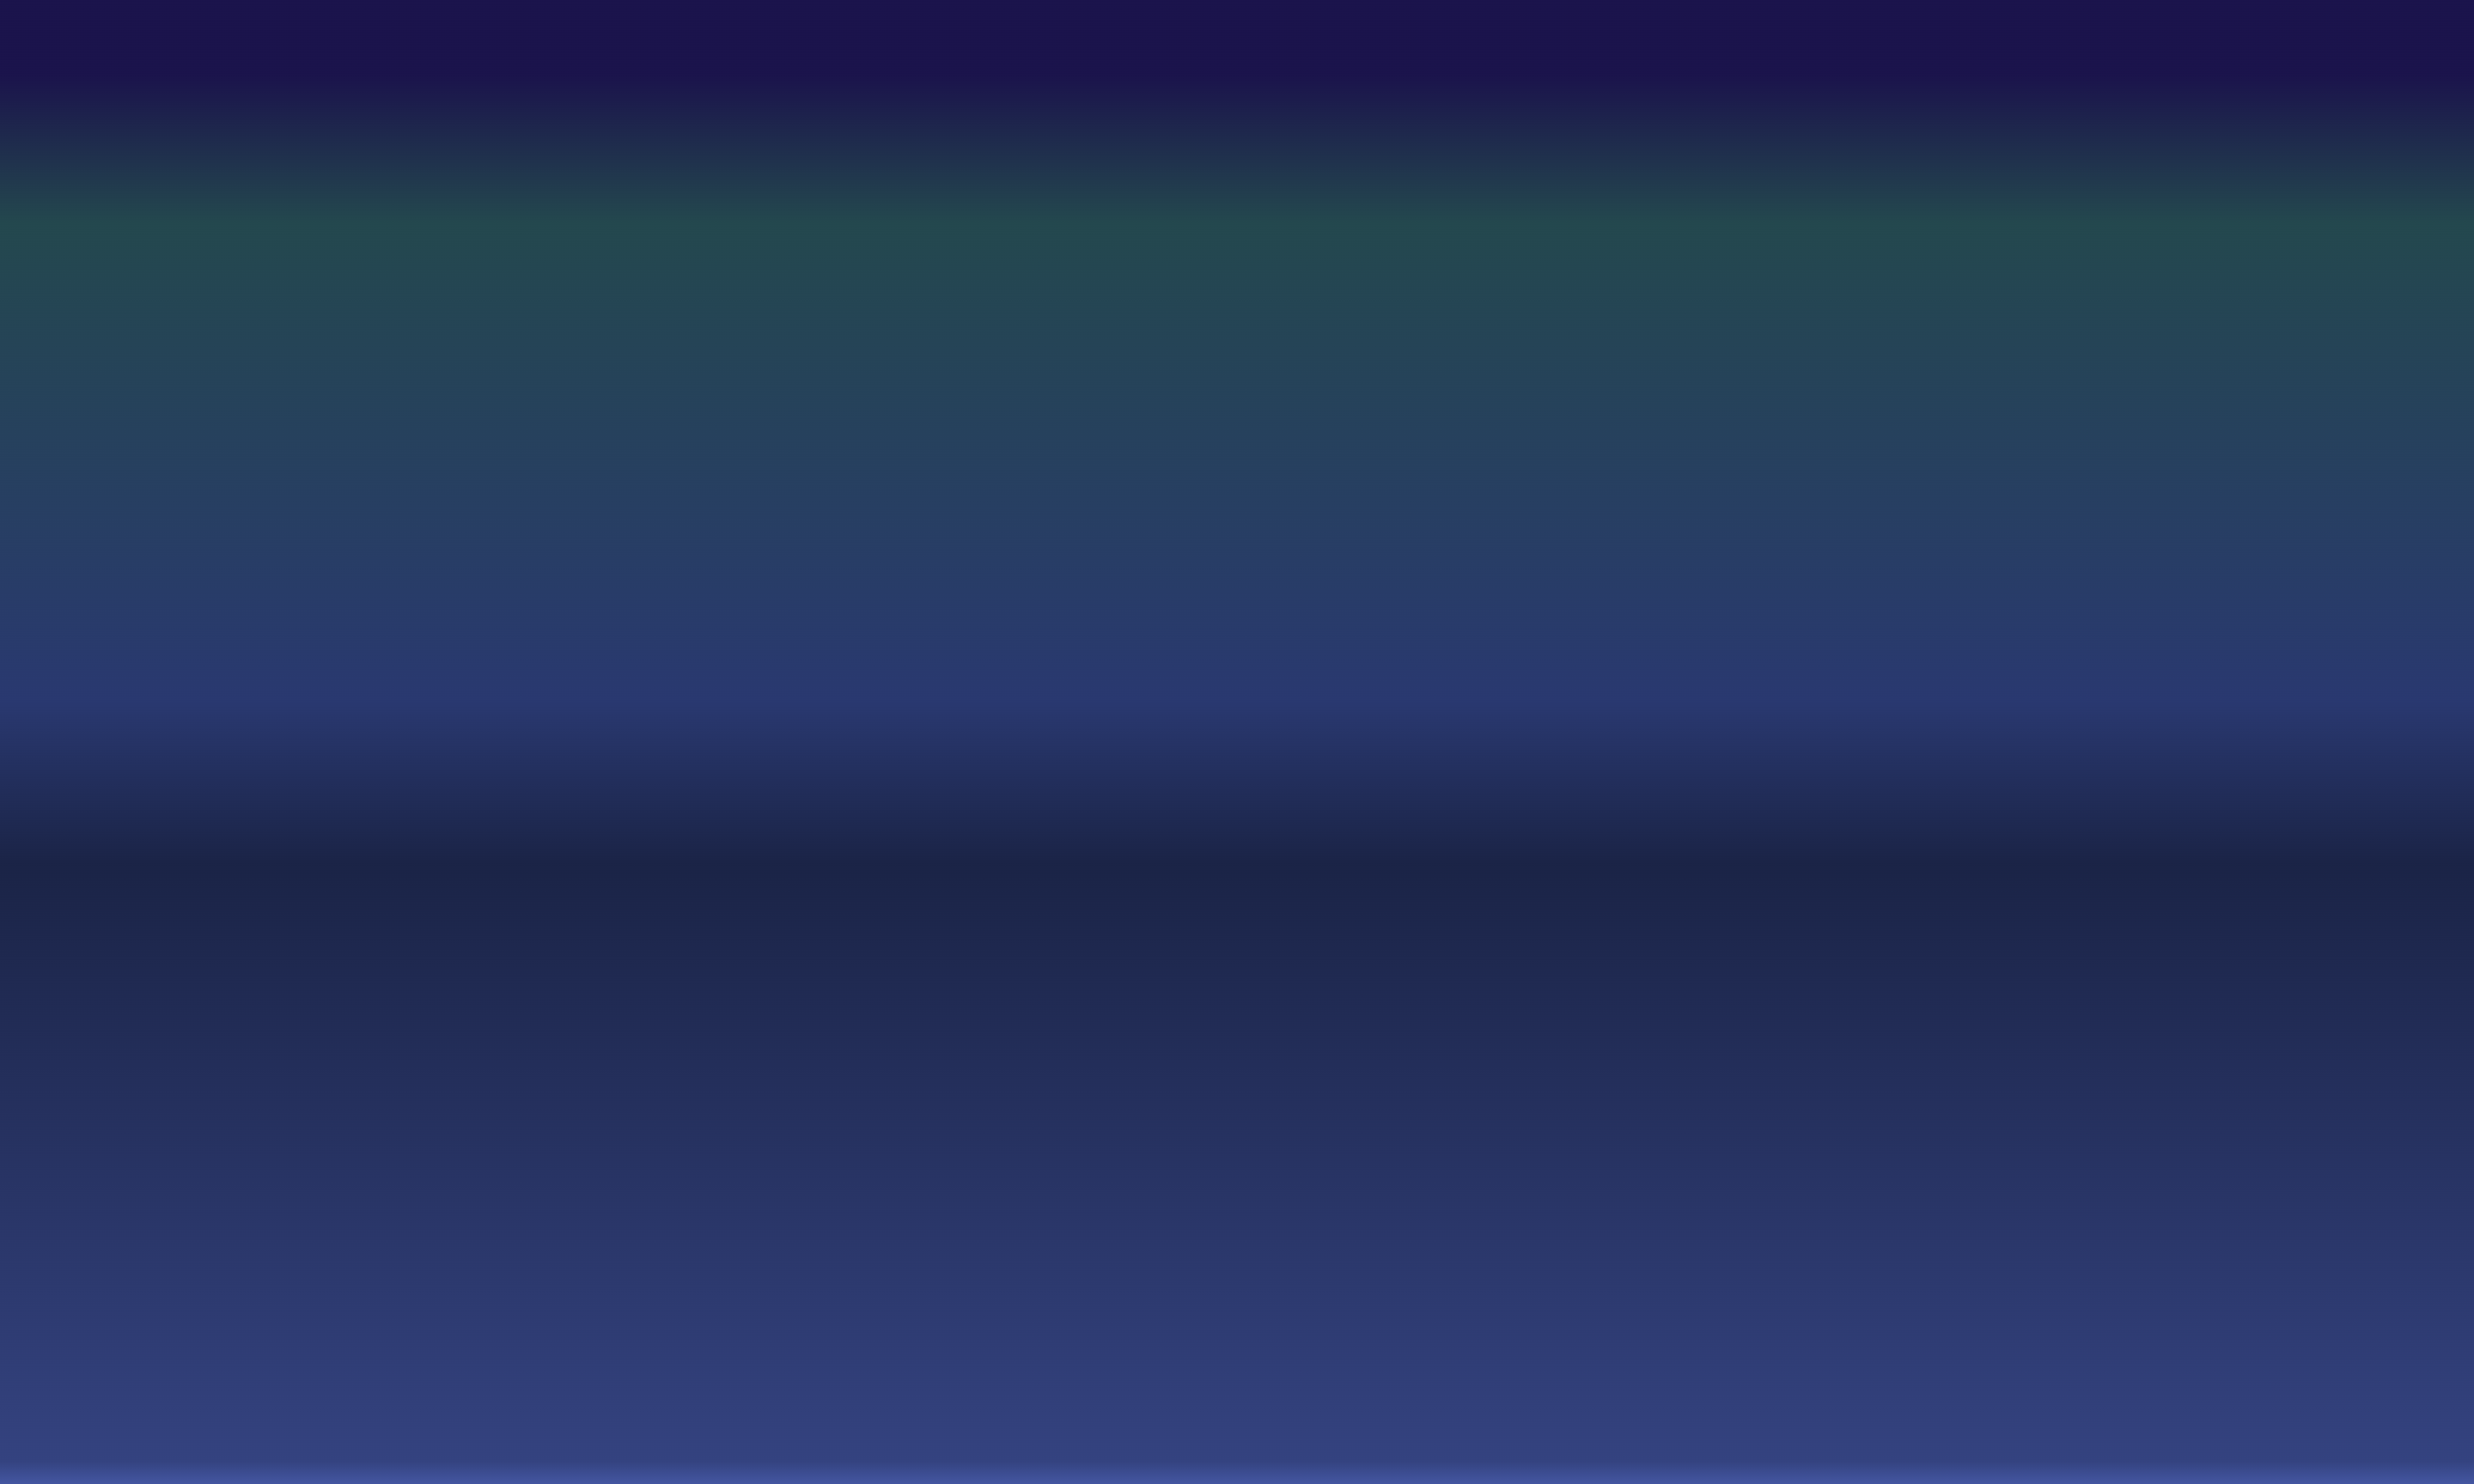
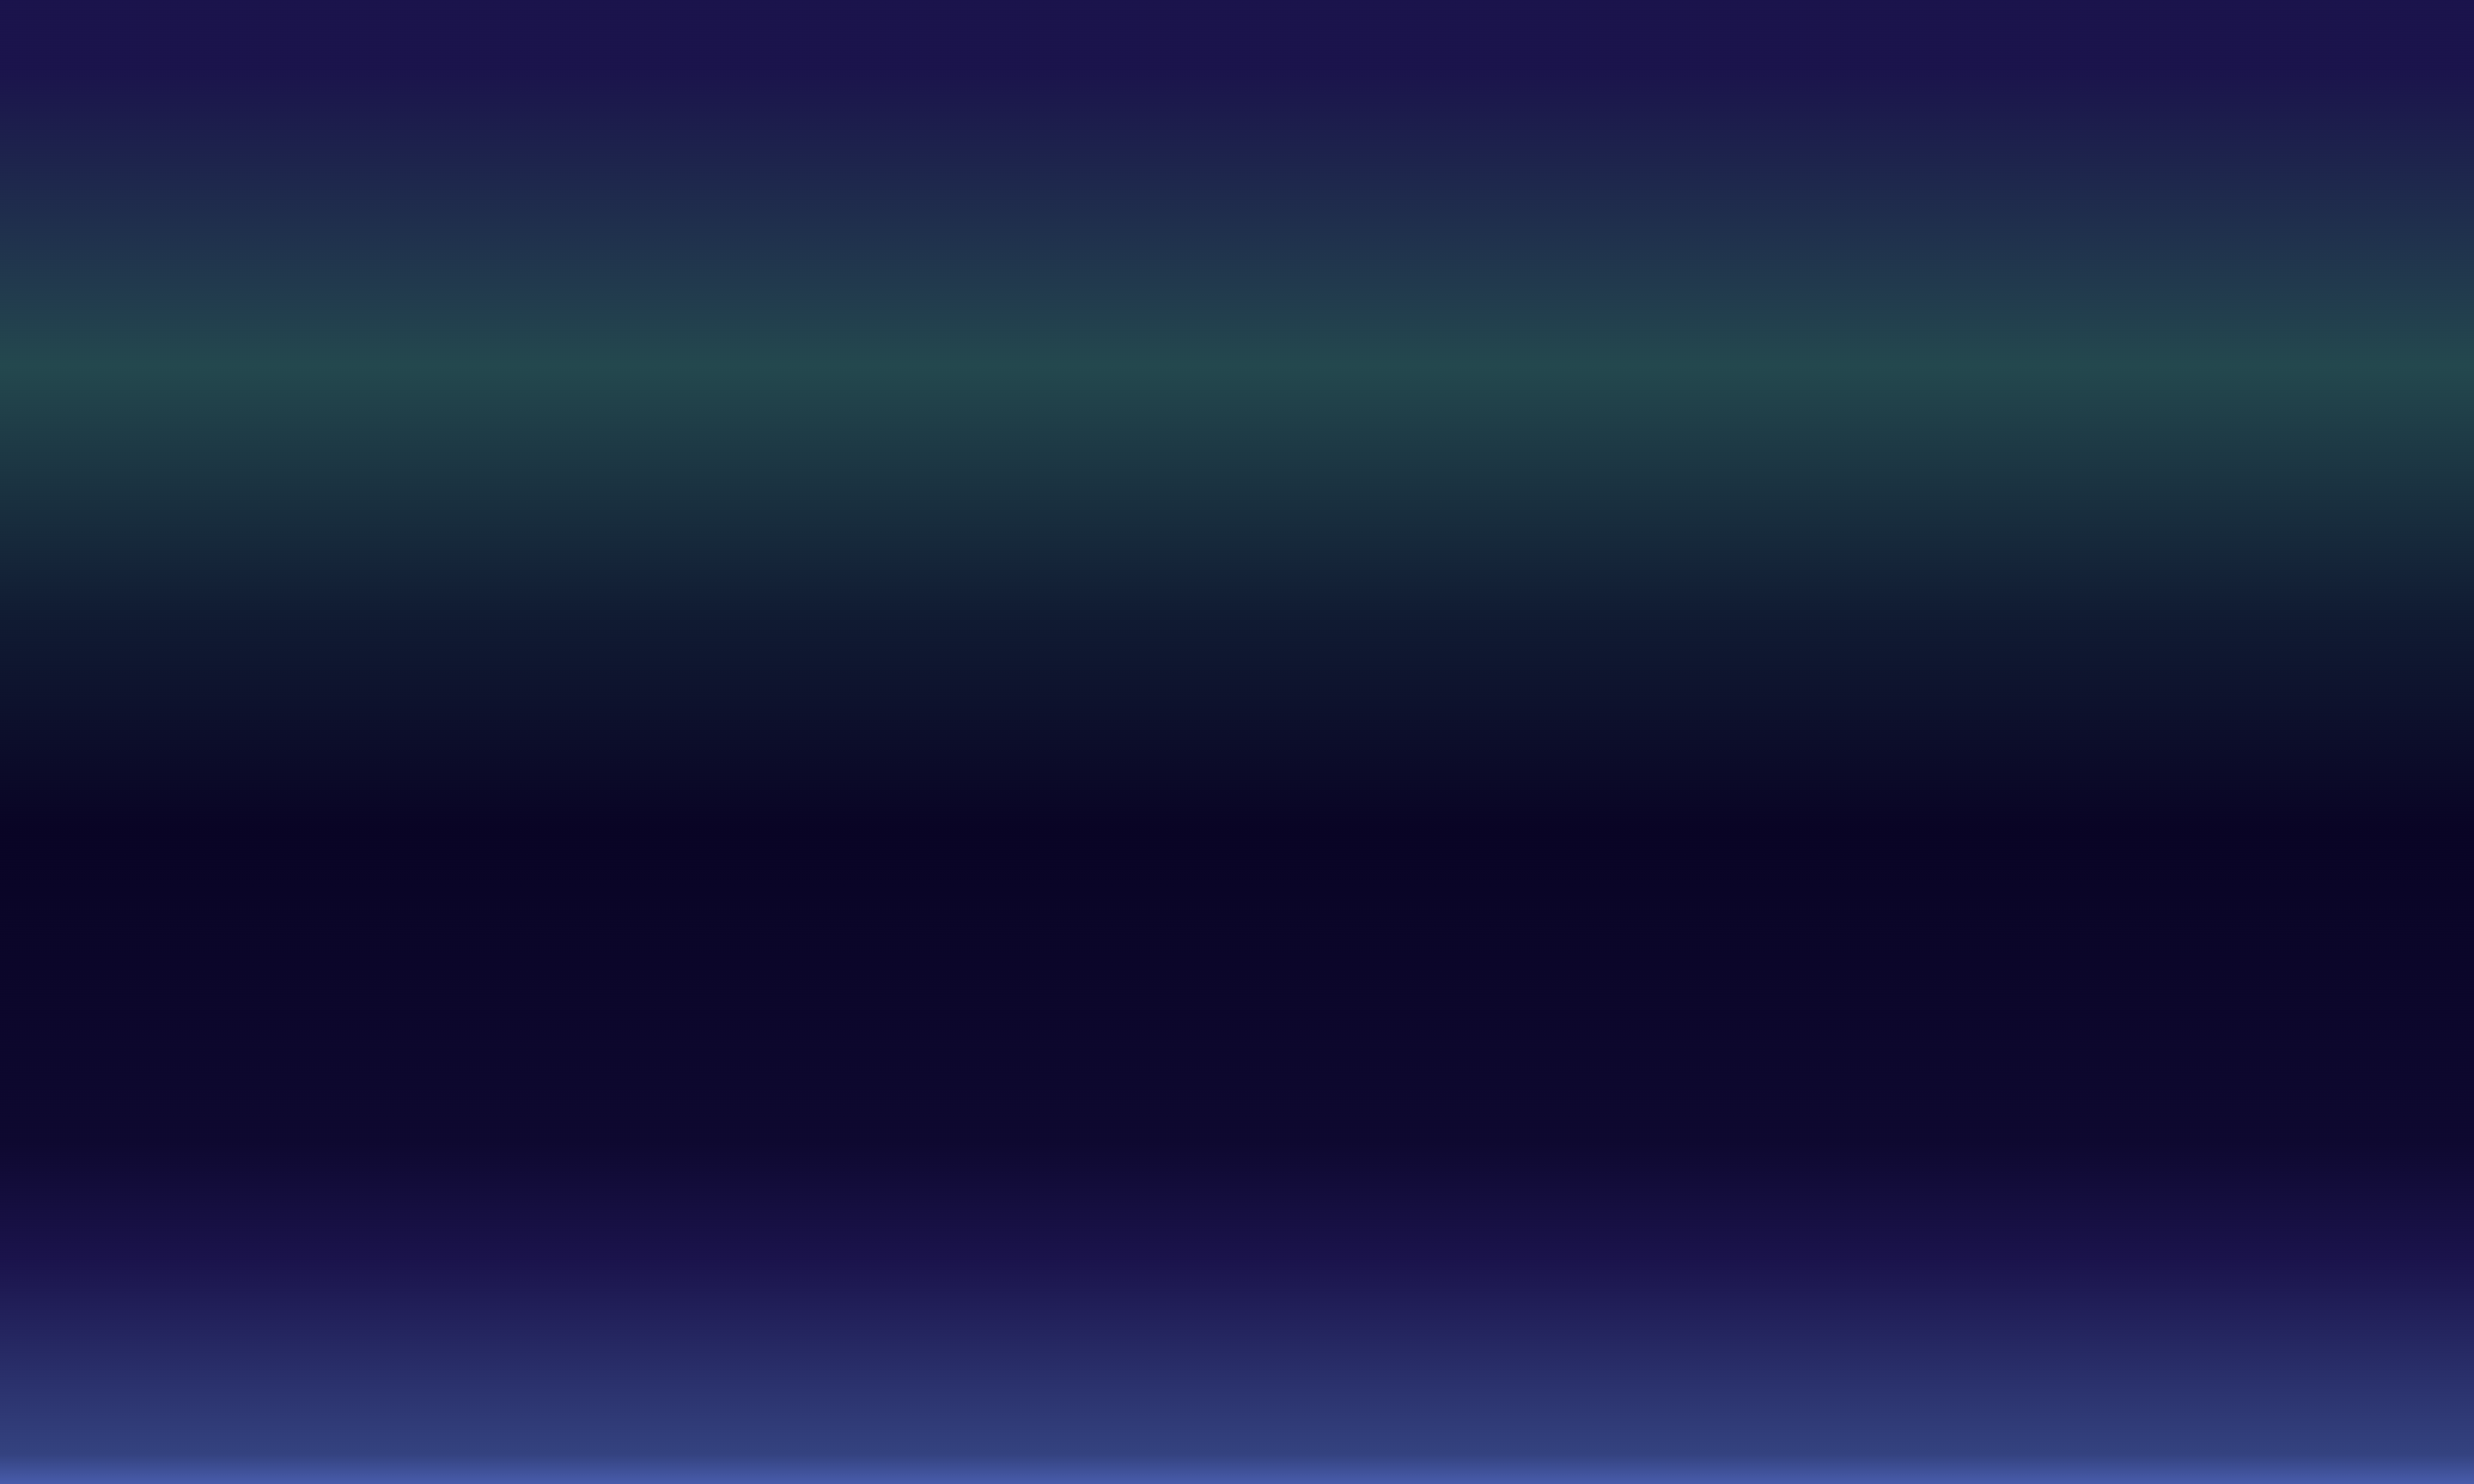
add nav-items to nav + create beautiful gradient for dark mode

diff --git a/src/layouts/nav.tsx b/src/layouts/nav.tsx
@@ -6,7 +6,7 @@ import { ThemeBtn } from '../components/themeBtn'
 export function Nav() {
   return (
     <nav className='nav-layout gap-4'>
-      <div className='simple-flex gap-4'>
+      <div className='flex-align gap-4'>
         <NameNavLink />
         <Socials />
       </div>

diff --git a/src/css/layouts.css b/src/css/layouts.css
@@ -88,8 +88,9 @@
   font-size: var(--text-lg);
 }
 
-.simple-flex {
+.flex-align {
   display: flex;
+  align-items: baseline;
 }
 
 .simple-row-layout {
